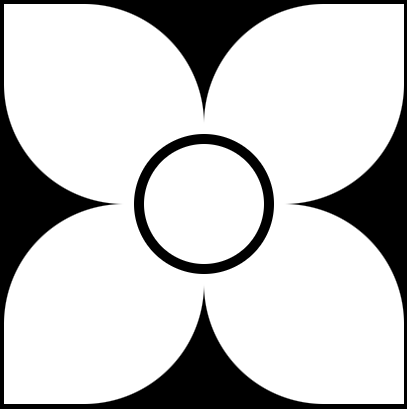
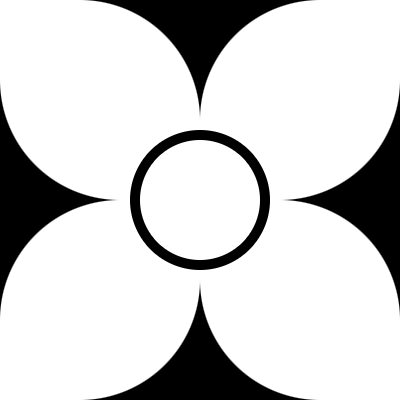
well.

diff --git a/index.html b/index.html
@@ -34,12 +34,18 @@
                         magni quasi placeat soluta molestiae a adipisci impedit assumenda ut? Lorem ipsum dolor sit amet consectetur adipisicing elit. Qui expedita labore, id accusantium nobis impedit dolore aliquid vitae tempore iusto aperiam accusamus sequi repellendus magni velit
                         ut totam odit eos!</p>
                     <br> <br>
-                        <div class="imageScroll">
+                        <ul class="imageScroll">
                             
-                        <div class="imageBlock"></div>
-                            <div class="imageBlock"></div>
-                            <div class="imageBlock"></div>
-                        </div>
+                                <li class="imageBlock"><img style="height:250px;
+                                width:400px;" src="img/flowerIcon.png">
+                                <li class="imageBlock"><img style="height:250px;
+                                width:400px;" src="img/flowerIcon.png">
+                                <li class="imageBlock"><img style="height:250px;
+                                width:400px;" src="img/flowerIcon.png">
+                                <li class="imageBlock"><img style="height:250px;
+                                width:400px;" src="img/flowerIcon.png">
+                                <li class="imageBlock"><img style="height:250px;
+                                width:400px;" src="img/flowerIcon.png">                        </div>
                 </div>
             </div>
 

diff --git a/style.css b/style.css
@@ -40,3 +40,33 @@
     text-align:center;
     padding:0px 150px 0px 150px;
 }
+.imageScroll{
+    display:flex;
+    border:5px white solid;
+    width:1400px;
+    right:0;
+    left:0;
+    margin:auto;
+    height:500px;
+    flex-direction: row;
+    justify-content: space-evenly;
+    list-style: none;
+	white-space: nowrap;
+	max-width: calc(var(--cover-size) * 5);
+	overflow: scroll;
+    scroll-snap-type: x mandatory;
+}
+.imageBlock{
+    height:250px;
+    border:red solid 2px;
+    background-color:blue;
+    margin:auto 20px;
+    width:100%;
+    list-style: none;
+    display: inline-block;
+	width: var(--cover-size);
+	aspect-ratio: 1;
+    scroll-snap-align: center;
+	height: auto;
+	-webkit-box-reflect: below 0.5em linear-gradient(rgb(0 0 0 / 0), rgb(0 0 0 / 0.25));
+}
